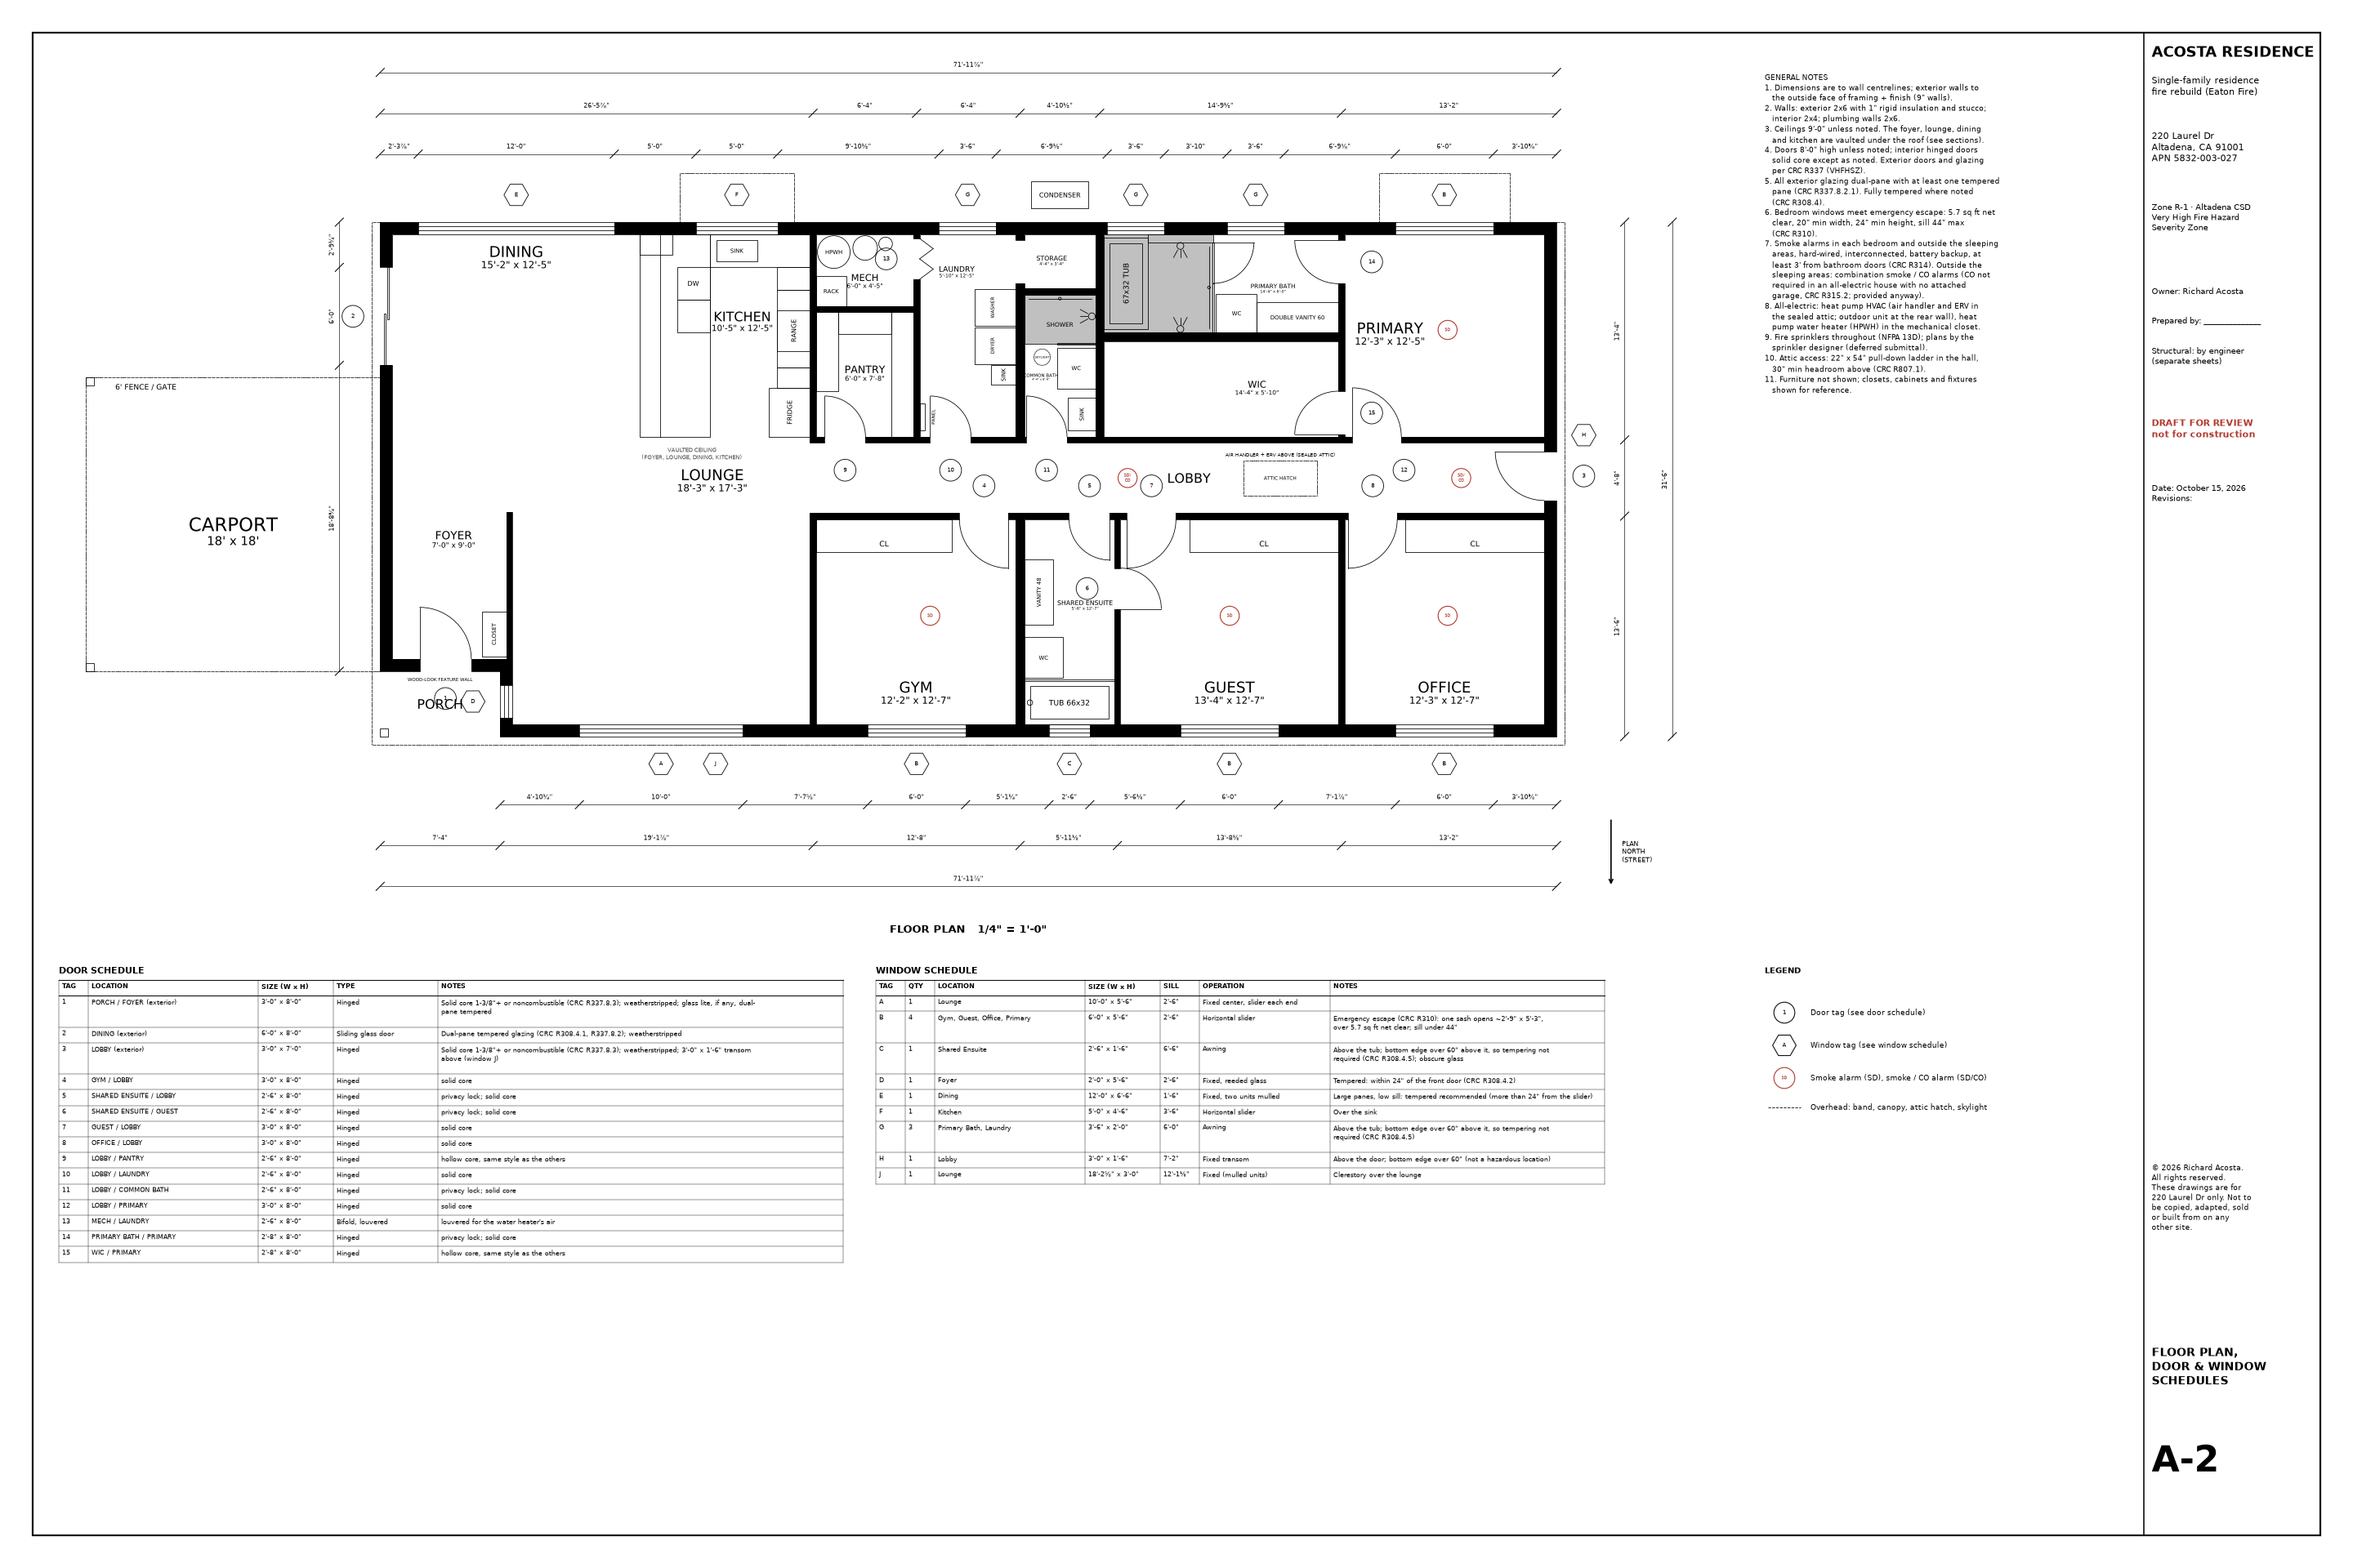
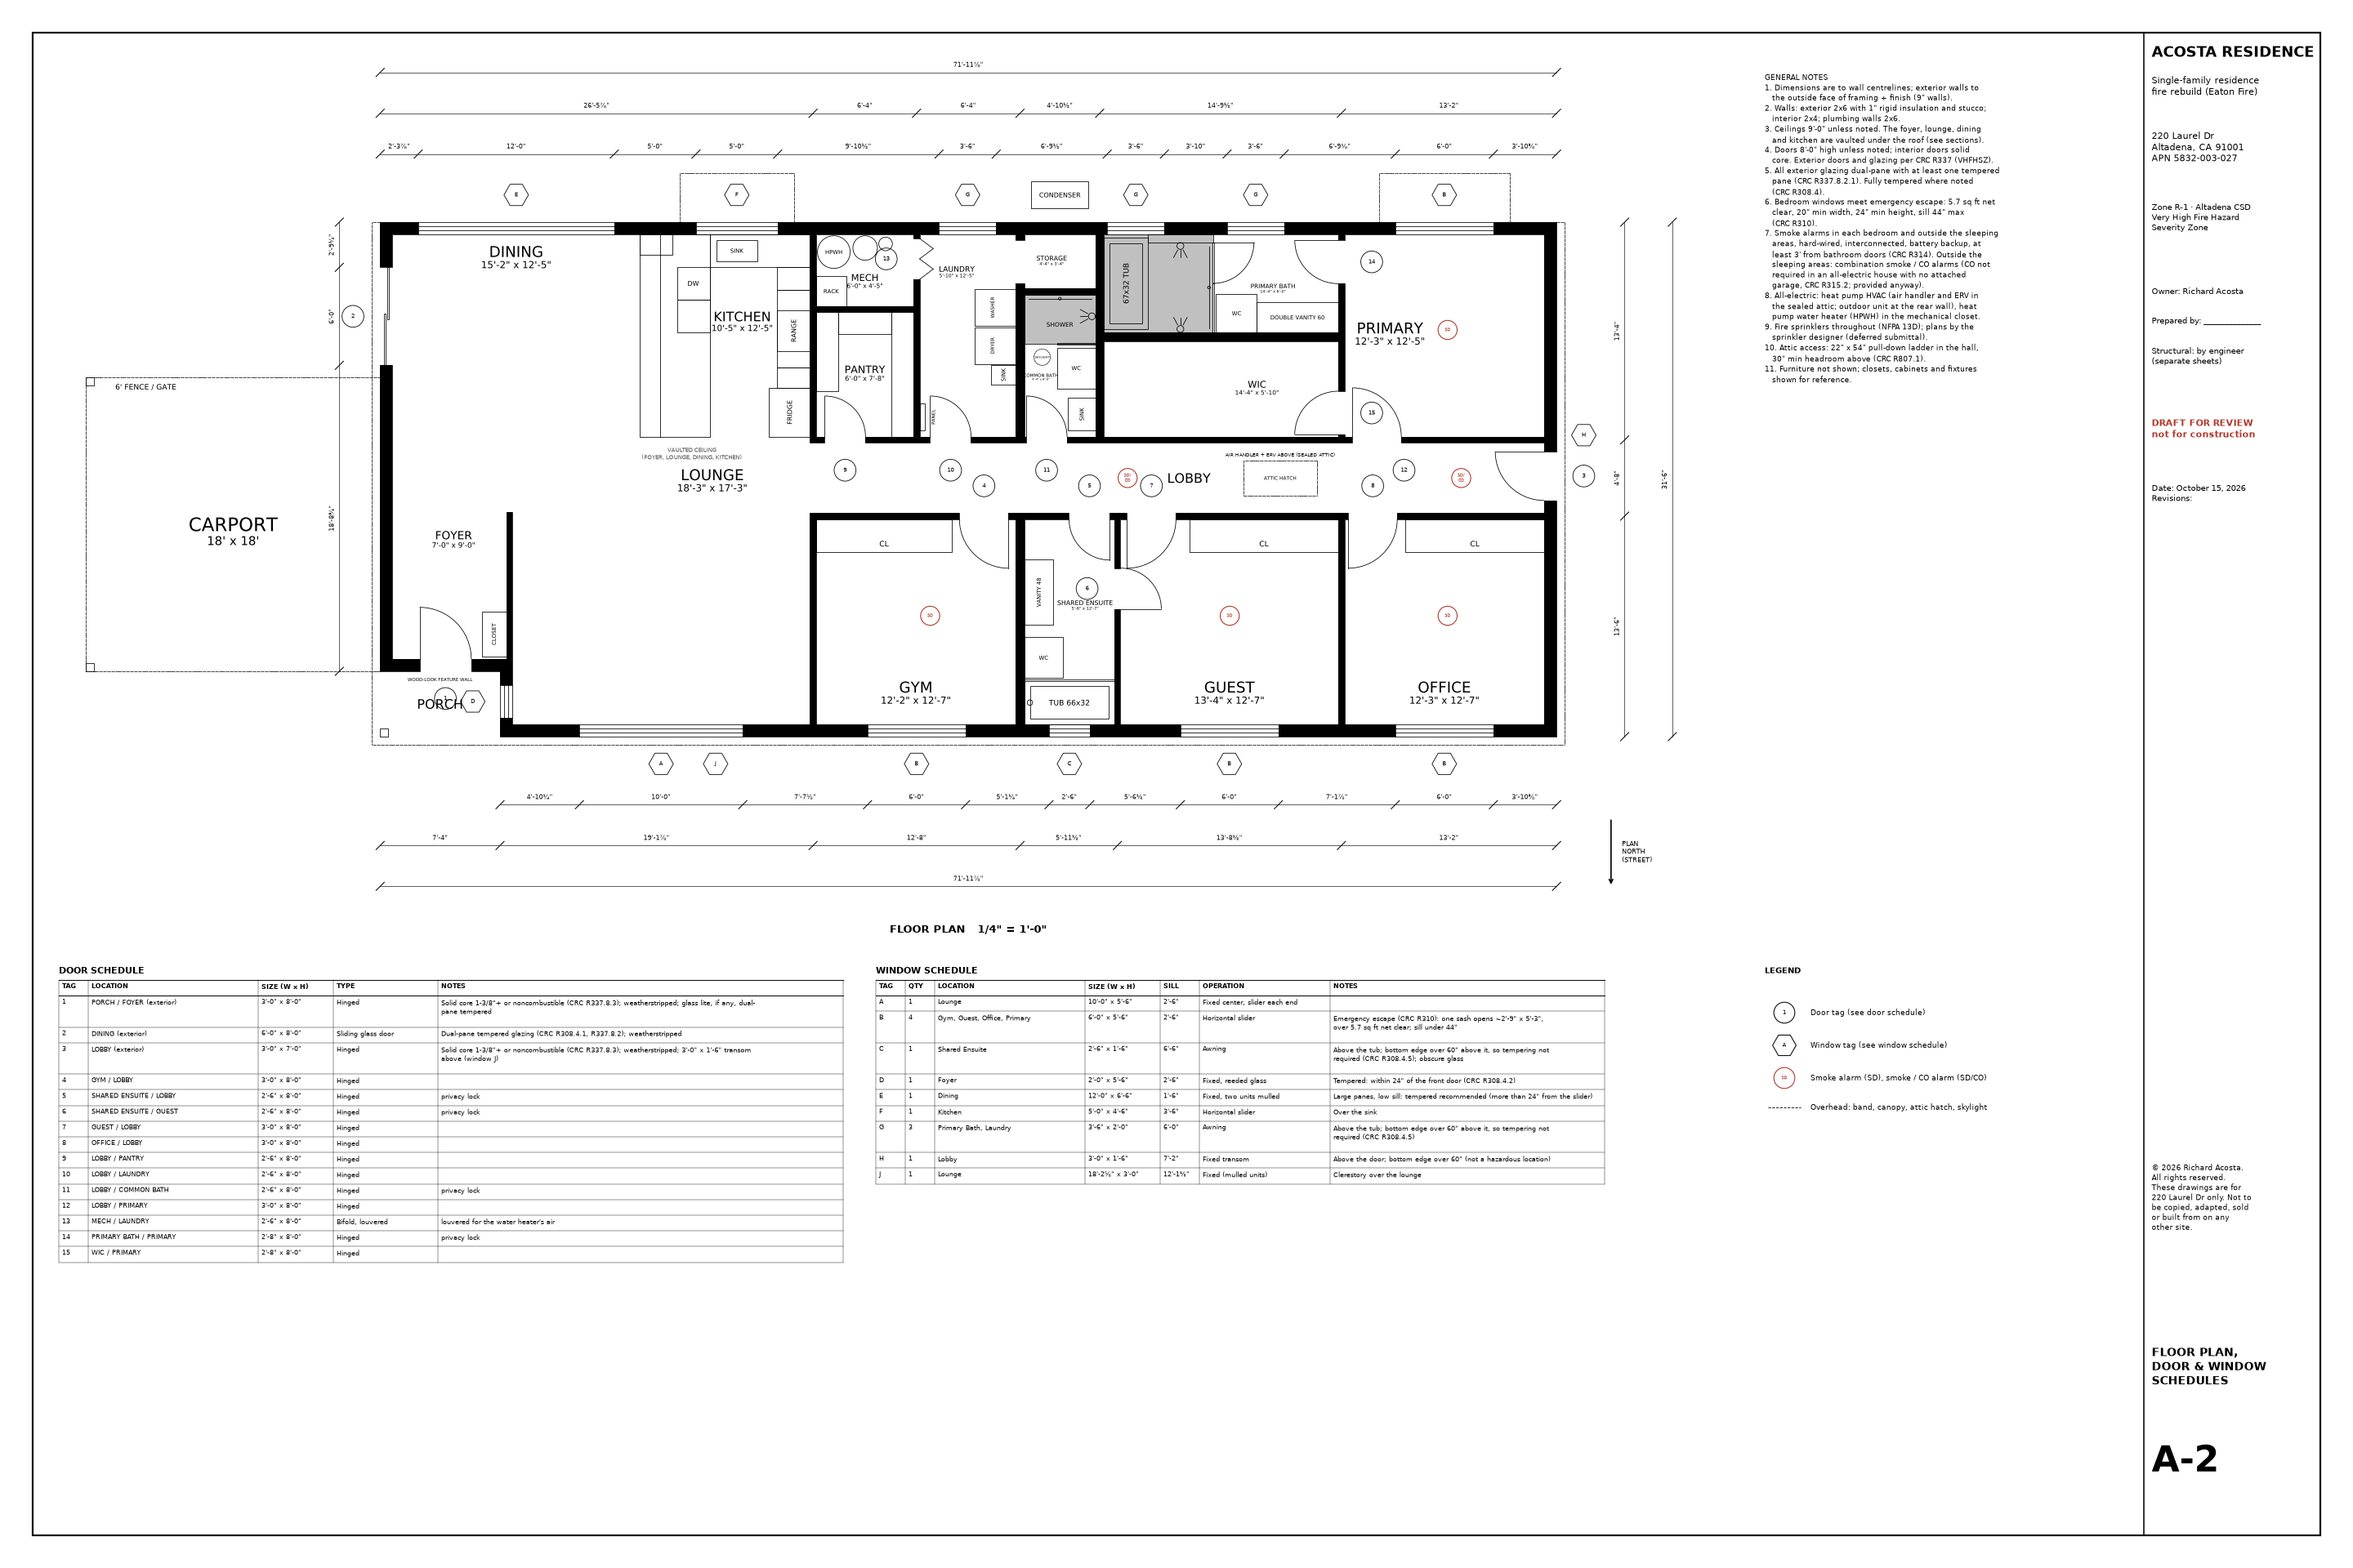
Doors: solid core by default as one general note; the door schedule no longer lists core per door

Changed region(s): [[0.75, 0.0938, 0.8438, 0.25], [0.1875, 0.7188, 0.2188, 0.75]]

diff --git a/scripts/permit_set.py b/scripts/permit_set.py
@@ -301,9 +301,6 @@ def floor_plan(pdf):
             notes.append("3'-0\" x 1'-6\" transom above (window J)")
         if any(k in names for k in ("BATH", "ENSUITE")):
             notes.append("privacy lock")
-        if not ext and o[3] == "door":
-            hollow = any(k in names for k in ("PANTRY", "WIC"))
-            notes.append("hollow core, same style as the others" if hollow else "solid core")
         if "MECH" in names:
             notes.append("louvered for the water heater's air")
         dsched.append((str(i), names, f"{ftin(w)} x {ftin(h)}", typ, textwrap.fill("; ".join(notes), 95)))
@@ -363,7 +360,7 @@ def floor_plan(pdf):
         "1. Dimensions are to wall centrelines; exterior walls to\n   the outside face of framing + finish (9\" walls).\n"
         "2. Walls: exterior 2x6 with 1\" rigid insulation and stucco;\n   interior 2x4; plumbing walls 2x6.\n"
         "3. Ceilings 9'-0\" unless noted. The foyer, lounge, dining\n   and kitchen are vaulted under the roof (see sections).\n"
-        "4. Doors 8'-0\" high unless noted; interior hinged doors\n   solid core except as noted. Exterior doors and glazing\n   per CRC R337 (VHFHSZ).\n"
+        "4. Doors 8'-0\" high unless noted; interior doors solid\n   core. Exterior doors and glazing per CRC R337 (VHFHSZ).\n"
         "5. All exterior glazing dual-pane with at least one tempered\n   pane (CRC R337.8.2.1). Fully tempered where noted\n   (CRC R308.4).\n"
         "6. Bedroom windows meet emergency escape: 5.7 sq ft net\n   clear, 20\" min width, 24\" min height, sill 44\" max\n   (CRC R310).\n"
         "7. Smoke alarms in each bedroom and outside the sleeping\n   areas, hard-wired, interconnected, battery backup, at\n   least 3' from bathroom doors (CRC R314). Outside the\n   sleeping areas: combination smoke / CO alarms (CO not\n   required in an all-electric house with no attached\n   garage, CRC R315.2; provided anyway).\n"

diff --git a/docs/02-floor-plan.md b/docs/02-floor-plan.md
@@ -46,7 +46,7 @@ Three strips side by side, each with its own door off the main lobby (no side ha
 - **Walk-in closet:** between the primary bedroom and the laundry block, behind the bath, entered from the bedroom through a hinged door that swings into the closet and opens flat against the hall-side wall. Hanging rods on both long sides: the one on the bath side runs to the bedroom wall; the one on the entry side stops short of it to leave room for the door and a landing inside it. No door to the bath. The far end wall is one built-in: corner shelves (shoes, folded clothes, bags) either side of a drawer stack.
 - **Primary suite:** a modest south window, since it faces SSW into a sleeping room; shade it with the overhang. Optional reading nook with a built-in bench (window seat) in the primary bedroom.
 
-- **Interior doors:** solid core on every hinged door (bedrooms, baths, laundry) for sound and so the tall doors stay flat; the pantry and walk-in closet doors can be hollow core in the same style, and the mechanical closet keeps its louvered bifold.
+- **Interior doors:** solid core throughout, for sound and so the tall doors stay flat (the mechanical closet keeps its louvered bifold).
 - **Lobby:** exterior door at the west end of the bedroom hall, out to the west side yard. A 7' door with a fixed glass transom above it throws daylight down the long hall.
 
 ## Ceilings and roof

diff --git a/README.md b/README.md
@@ -1,6 +1,6 @@
 # Accosting rebuild: floor plan and design wishlist
 
-220 Laurel Dr, Altadena. All-electric, single-story Eaton Fire rebuild. Updated Oct 16, 2026, 4:59 AM PT · @Richard
+220 Laurel Dr, Altadena. All-electric, single-story Eaton Fire rebuild. Updated Oct 16, 2026, 5:01 AM PT · @Richard
 
 > **Use of these plans.** © 2026 Richard Acosta. All rights reserved. Everything here (plans, drawings, DXF files, 3D models, renders, documents and scripts) is for the rebuild of 220 Laurel Dr only and is shared for the people working on this project. It may not be copied, adapted, built from, submitted for a permit or used commercially anywhere else. These are owner-prepared drafts, not reviewed by a licensed architect, engineer or permitting agency, and not for construction. See [LICENSE](LICENSE).
 
